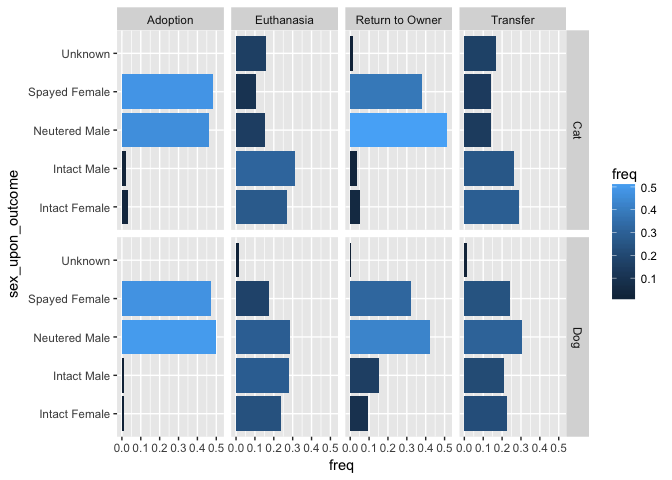
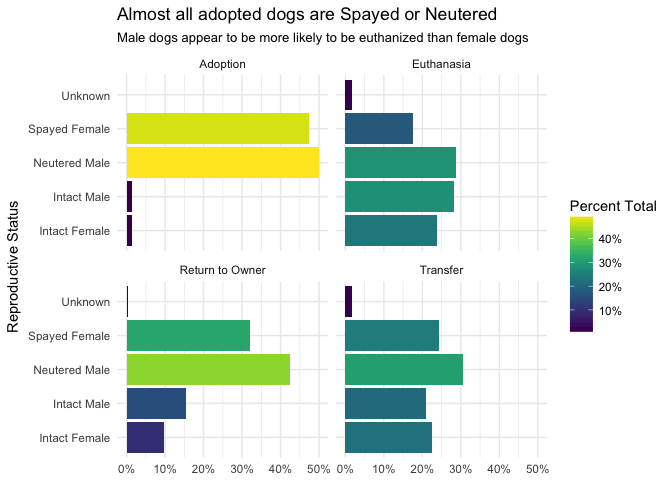
Improvind markdown EDA

diff --git a/Project_Cleaned.md b/Project_Cleaned.md
@@ -1,17 +1,17 @@
 Dog Adoption
 ================
 Tyler Mallon
-28 August, 2018
+31 August, 2018
 
 ### Introduction & Background
 
-The Austin Animal Center (AAC) is the largest no-kill municipal animal shelter in the United States. They are an open-intake facility providing shelter and protection to all animals regardless of their condition upon intake. They seek to only euthanize a maximum of 10% of the animals they receive, and usually do so only as a means of ending suffering. The goal of the AAC is to place all animals that can be adopted into permanent homes, and most of their animals are dogs. So, the primary goal of this research is to help the AAC to better predict whether an animal can be adopted based upon an analysis of AAC data observations. This should help the AAC better optimize the use of its limited resources by prolonging the sheltering of dogs most likely to be adopted (or returned) and hastening the transfer of dogs most likely to be transferred or euthanized.
+The Austin Animal Center (AAC) is the largest no-kill municipal animal shelter in the United States. They are an open-intake facility providing shelter and protection to all animals regardless of their condition upon intake. They seek to only euthanize a maximum of 10% of the animals they receive, and usually do so only as a means of ending suffering. The goal of the AAC is to place all animals that can be adopted into permanent homes. As such, the primary goal of this research is to help the AAC to better predict whether an animal can be adopted based upon an analysis of previous AAC data observations. This should help the AAC better optimize the use of its limited resources by prolonging the sheltering of animals most likely to be adopted (or returned).
 
 ------------------------------------------------------------------------
 
 ### EDA Overview
 
-Although there were a few other outcome types observed in the shelter population, after performing an exploratory data analysis (EDA), I decided to limit the sample set to dogs with the four most prevalent outcome types; Adoption, Euthanasia, Return to Owner, and Transfer. The EDA confirmed several of my initial intuitions. First, owners prefer not to adopt dogs that still have their reproductive capabilities still intact. Second, owners prefer to adopt younger animals. Third and finally, Owners prefer to adopt animals that are in good health.
+Although there were a few other outcome types observed in the shelter population, after performing an exploratory data analysis (EDA), I decided to limit the sample set to animals with the four most prevalent outcome types; Adoption, Euthanasia, Return to Owner, and Transfer. Additionally, I decided to focus this effort initially on just predicting the outcomes of dogs. This is based on the fact that dogs comprise 56.9% of all observations. I suspect that separate models should be created for different animal types, and as such I want to focus on one species of animal to begin with. The EDA confirmed several of my initial intuitions. First, owners prefer not to adopt dogs that still have their reproductive capabilities still intact. Second, owners prefer to adopt younger dogs. Third and finally, Owners prefer to adopt dogs that are in good health.
 
 I also discovered that it was going to be necessary to simplify several of the features due to the number of distinct values that they contained. Both color and dog breed contained over 300 distinct values, which would be computationally very expensive. After doing some research on the adoption of dogs in general, I discovered that there is a prevailing theory that black colored dogs seem to be adopted less. So, I decided to simplify the color variable as either black or not. Similar to "color," I reduced the number of possible breed values by grouping all the breeds into the eight different groups as defined by the AKC [here](https://www.akc.org/public-education/resources/general-tips-information/dog-breeds-sorted-groups/). These are broken down into seven primary categories of dogs, and one miscellaneous category for any dog that does not fall under those seven primary groupings.
 
@@ -106,7 +106,7 @@ In the initial dataset, it appears that almost all of the animals are cats and d
     ## 3 Dog          45366
     ## 4 Other         4428
 
-In the initial dataset, it appears that there are 1919 unique breeds of animals.
+In the initial dataset, it appears that there are 1919 unique breeds of dogs.
 
     ## # A tibble: 1,919 x 1
     ##    breed                      
@@ -123,7 +123,7 @@ In the initial dataset, it appears that there are 1919 unique breeds of animals.
     ## 10 Chihuahua Shorthair        
     ## # ... with 1,909 more rows
 
-In the initial dataset, there are 337 unique color combinations of animals
+In the initial dataset, there are 337 unique color combinations of dogs.
 
     ## # A tibble: 337 x 1
     ##    color       
@@ -142,6 +142,11 @@ In the initial dataset, there are 337 unique color combinations of animals
 
 #### EDA Process - Distributional Exploration
 
+``` r
+data_dog <- data %>%
+  filter(animal_type == "Dog")
+```
+
 In the initial dataset, almost all the animals have only visited the shelter once. A small portion of the animals have been to the shelter twice and there are almost no animals that have been there three or more times.
 
 ![](Project_Cleaned_files/figure-markdown_github/distributional_exploration1-1.png)
@@ -150,15 +155,15 @@ It appears that there are four primary outcomes: Adoption, Transfer, Return to O
 
 ![](Project_Cleaned_files/figure-markdown_github/distributional_exploration2-1.png)
 
-The distributions for cats and dogs across the four primary outcome types are fairly similar.
+The distributions for dogs across the primary outcomes of Adoption, Return to Owner, and Transfer are fairly similar. They are all right skewed distributions and appear to reflect the overall distribution of the age of dogs within the shelter. Euthanasia, however, differs slightly and shows a distribution closer to uniform with a slight central tendency around age of year 2.
 
 ![](Project_Cleaned_files/figure-markdown_github/distributional_exploration3-1.png)
 
-As a proportion of the possible outcomes, it is clear that spayed and neutered cats and dogs are almost all of the animals that end up getting adopted.
+As a proportion of the possible outcomes, it is clear that spayed and neutered dogs are almost all of the animals that end up getting adopted. Spayed and neutered dogs also comprise a majority of dogs that result in the Return to Owner outcome. The distribution is more even for the Euthanasia and Transfer outcomes. I also see that male dogs comprise a slightly higher proportion of euthanized dogs relative to females.
 
 ![](Project_Cleaned_files/figure-markdown_github/distributional_exploration4-1.png)
 
-As a proportion of the possible outcomes, it is clear that injured and sick animals make up the majority of animals that have an outcome type of euthanasia.
+As a proportion of the possible outcomes for all adopted dogs, their intake status is almost always Normal. For euthanized dogs, intake status of Normal is still the predominant intake status. However, euthanized dogs have a much higher percentage of injured and sick dogs relative to adopted dogs. This is generally what I expect.
 
 ![](Project_Cleaned_files/figure-markdown_github/distributional_exploration5-1.png)
 
@@ -286,47 +291,47 @@ After optimizing our KNN modeling, we developed a few Random Forest models in an
     ## 
     ##                  Reference
     ## Prediction        Adoption Euthanasia Return to Owner Transfer
-    ##   Adoption            5951        104             348      988
-    ##   Euthanasia             0        199               5        2
-    ##   Return to Owner       85         64            3541      114
-    ##   Transfer             138         83              87     1805
+    ##   Adoption            5977        101             373     1012
+    ##   Euthanasia             1        191               3        6
+    ##   Return to Owner       79         56            3505      109
+    ##   Transfer             117        102             100     1782
     ## 
     ## Overall Statistics
     ##                                           
-    ##                Accuracy : 0.8507          
-    ##                  95% CI : (0.8446, 0.8566)
+    ##                Accuracy : 0.8476          
+    ##                  95% CI : (0.8415, 0.8537)
     ##     No Information Rate : 0.4569          
     ##     P-Value [Acc > NIR] : < 2.2e-16       
     ##                                           
-    ##                   Kappa : 0.7641          
+    ##                   Kappa : 0.7589          
     ##  Mcnemar's Test P-Value : < 2.2e-16       
     ## 
     ## Statistics by Class:
     ## 
     ##                      Class: Adoption Class: Euthanasia
-    ## Sensitivity                   0.9639           0.44222
-    ## Specificity                   0.8038           0.99946
-    ## Pos Pred Value                0.8052           0.96602
-    ## Neg Pred Value                0.9636           0.98114
-    ## Precision                     0.8052           0.96602
-    ## Recall                        0.9639           0.44222
-    ## F1                            0.8774           0.60671
+    ## Sensitivity                   0.9681           0.42444
+    ## Specificity                   0.7975           0.99923
+    ## Pos Pred Value                0.8009           0.95025
+    ## Neg Pred Value                0.9674           0.98055
+    ## Precision                     0.8009           0.95025
+    ## Recall                        0.9681           0.42444
+    ## F1                            0.8766           0.58679
     ## Prevalence                    0.4569           0.03330
-    ## Detection Rate                0.4404           0.01473
-    ## Detection Prevalence          0.5469           0.01524
-    ## Balanced Accuracy             0.8838           0.72084
+    ## Detection Rate                0.4423           0.01413
+    ## Detection Prevalence          0.5522           0.01487
+    ## Balanced Accuracy             0.8828           0.71184
     ##                      Class: Return to Owner Class: Transfer
-    ## Sensitivity                          0.8895          0.6205
-    ## Specificity                          0.9724          0.9710
-    ## Pos Pred Value                       0.9309          0.8542
-    ## Neg Pred Value                       0.9547          0.9032
-    ## Precision                            0.9309          0.8542
-    ## Recall                               0.8895          0.6205
-    ## F1                                   0.9097          0.7188
+    ## Sensitivity                          0.8804          0.6126
+    ## Specificity                          0.9744          0.9699
+    ## Pos Pred Value                       0.9349          0.8482
+    ## Neg Pred Value                       0.9513          0.9013
+    ## Precision                            0.9349          0.8482
+    ## Recall                               0.8804          0.6126
+    ## F1                                   0.9069          0.7114
     ## Prevalence                           0.2946          0.2153
-    ## Detection Rate                       0.2620          0.1336
-    ## Detection Prevalence                 0.2815          0.1564
-    ## Balanced Accuracy                    0.9309          0.7957
+    ## Detection Rate                       0.2594          0.1319
+    ## Detection Prevalence                 0.2774          0.1555
+    ## Balanced Accuracy                    0.9274          0.7913
 
 #### Variable Importance
 
